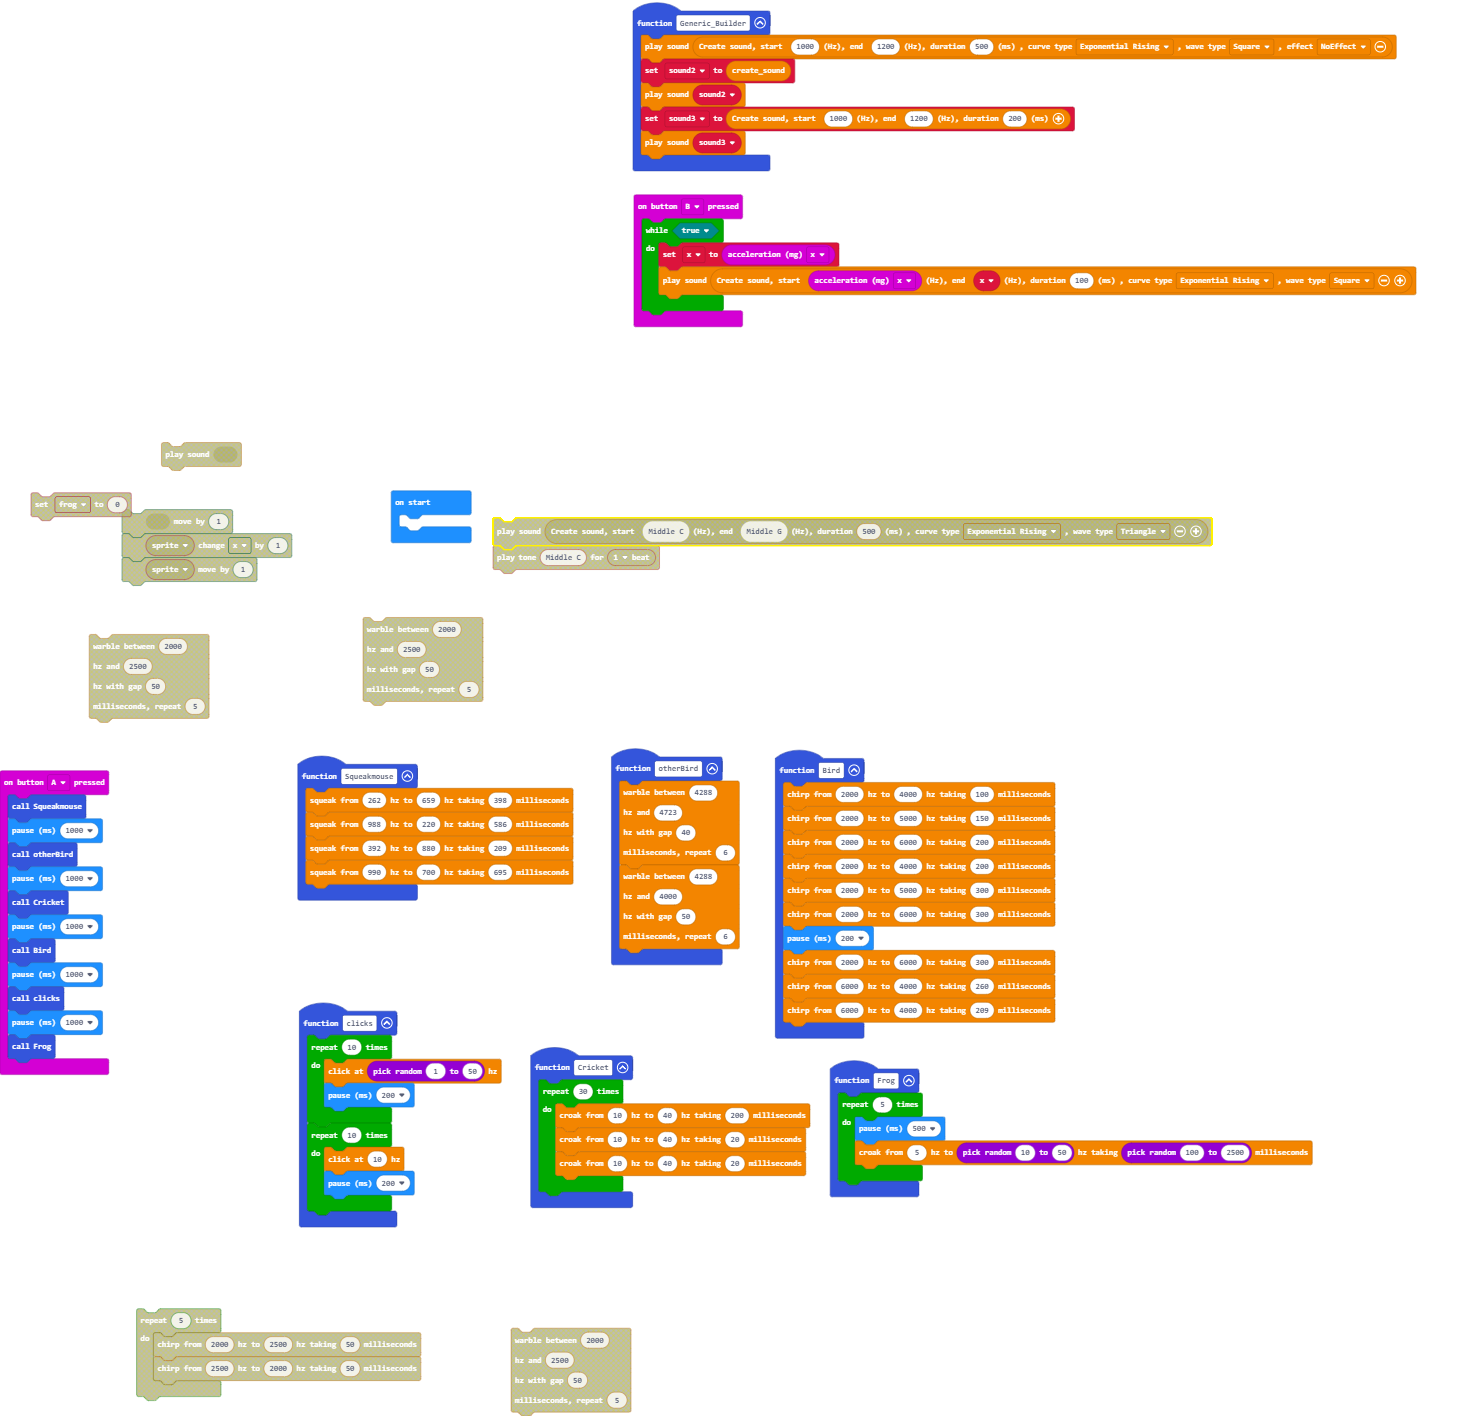
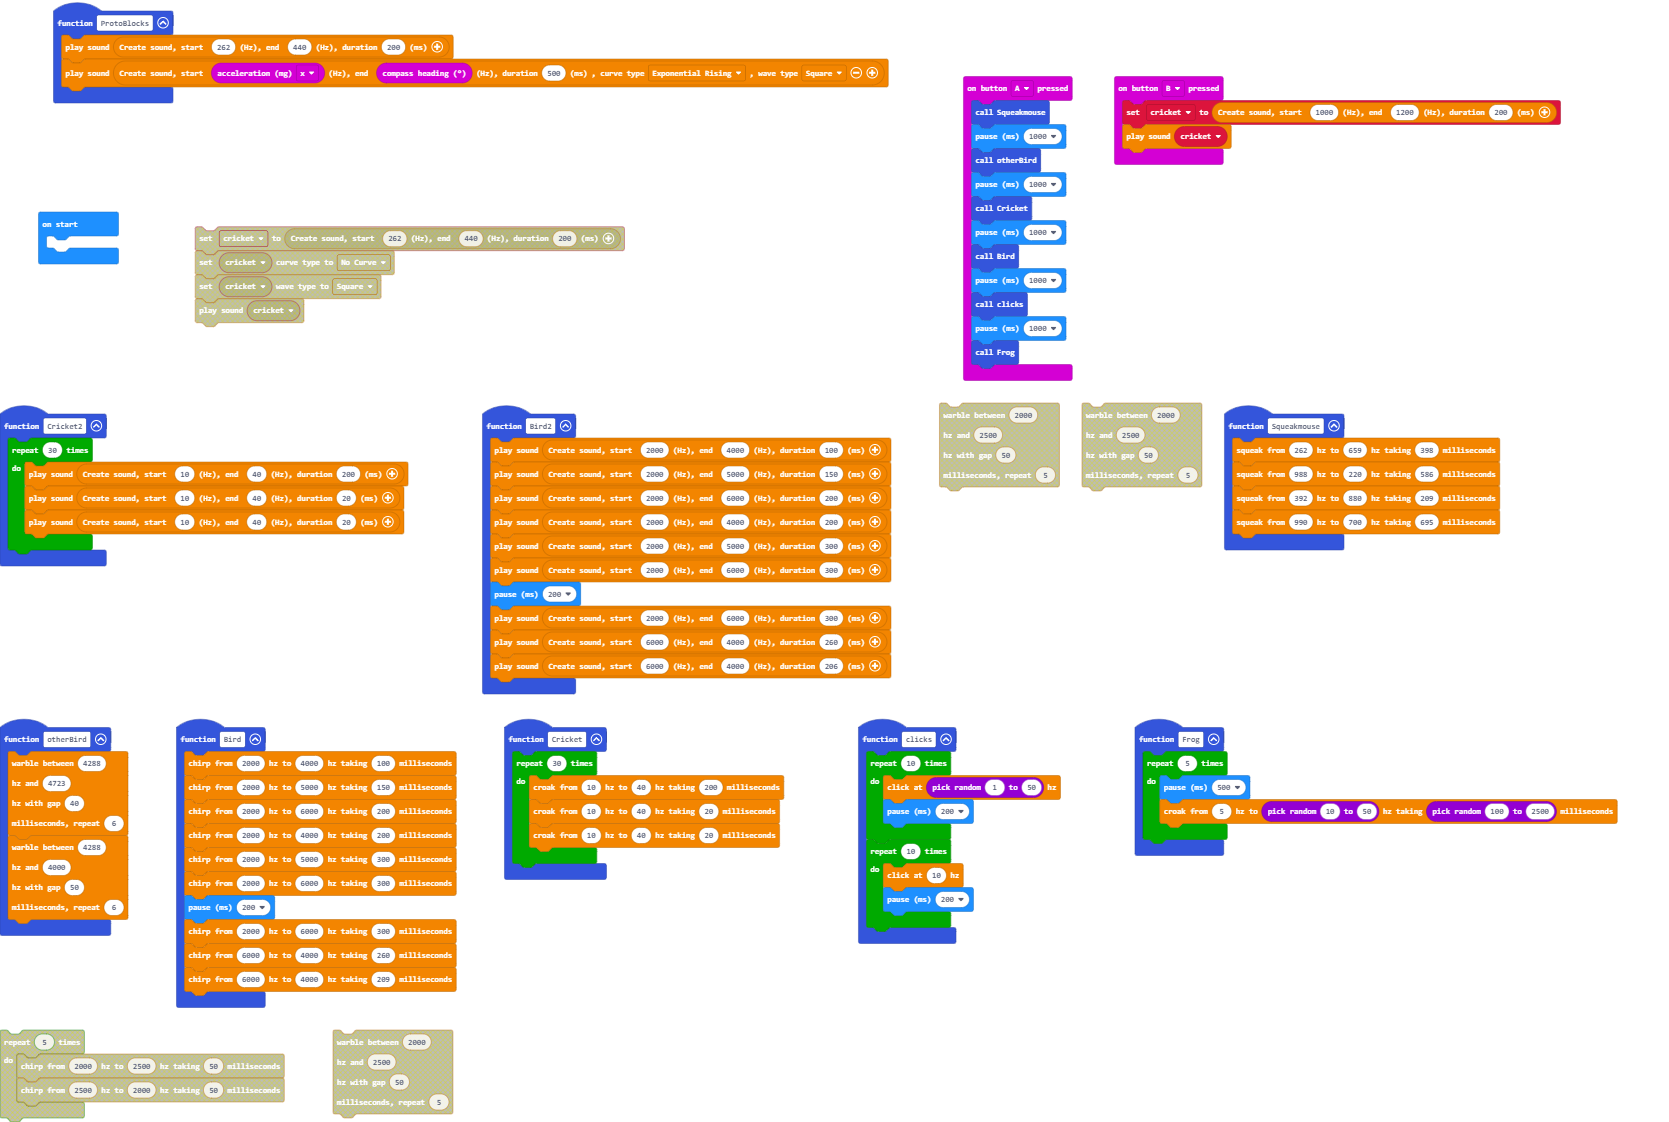
Added builder blocks

diff --git a/main.ts b/main.ts
@@ -1,6 +1,8 @@
-let sound2: sound.Sound = null
-let sound3: sound.Sound = null
-let x = 0
+let cricket: sound.Sound = null
+function ProtoBlocks () {
+    sound.playSound(sound.createSound(262, 440, 200))
+    sound.playSound(sound.createSound(input.acceleration(Dimension.X), input.compassHeading(), 500, CurveType.ExpRising, WaveType.SquareWave))
+}
 function Squeakmouse () {
     sound.squeakSound(262, 659, 398)
     sound.squeakSound(988, 220, 586)
@@ -59,18 +61,21 @@ function Bird () {
     sound.chirpSound(6000, 4000, 260)
     sound.chirpSound(6000, 4000, 209)
 }
-function Generic_Builder () {
-    sound.playSound(sound.createSound(1000, 1200, 500, CurveType.ExpRising, WaveType.SquareWave, EffectType.None))
-    sound2 = sound.createSoundVar()
-    sound.playSound(sound2)
-    sound3 = sound.createSound(1000, 1200, 200)
-    sound.playSound(sound3)
+function Bird2 () {
+    sound.playSound(sound.createSound(2000, 4000, 100))
+    sound.playSound(sound.createSound(2000, 5000, 150))
+    sound.playSound(sound.createSound(2000, 6000, 200))
+    sound.playSound(sound.createSound(2000, 4000, 200))
+    sound.playSound(sound.createSound(2000, 5000, 300))
+    sound.playSound(sound.createSound(2000, 6000, 300))
+    basic.pause(200)
+    sound.playSound(sound.createSound(2000, 6000, 300))
+    sound.playSound(sound.createSound(6000, 4000, 260))
+    sound.playSound(sound.createSound(6000, 4000, 206))
 }
 input.onButtonPressed(Button.B, function () {
-    while (true) {
-        x = input.acceleration(Dimension.X)
-        sound.playSound(sound.createSound(input.acceleration(Dimension.X), x, 100, CurveType.ExpRising, WaveType.SquareWave))
-    }
+    cricket = sound.createSound(1000, 1200, 200)
+    sound.playSound(cricket)
 })
 function clicks () {
     for (let index = 0; index < 10; index++) {
@@ -80,5 +85,12 @@ function clicks () {
     for (let index = 0; index < 10; index++) {
         sound.clickSound(10)
         basic.pause(200)
+    }
+}
+function Cricket2 () {
+    for (let index = 0; index < 30; index++) {
+        sound.playSound(sound.createSound(10, 40, 200))
+        sound.playSound(sound.createSound(10, 40, 20))
+        sound.playSound(sound.createSound(10, 40, 20))
     }
 }

diff --git a/custom.ts b/custom.ts
@@ -8,14 +8,14 @@
   */
 enum WaveType
 {
+    //% block="Square"
+    SquareWave = "3",
     //% block="Sine"
     SineWave = "0",
     //% block="Sawtooth"
     SawtoothWave = "1",
     //% block="Triangle"
     TriangleWave = "2",
-    //% block="Square"
-    SquareWave = "3",
     //% block="Noise"
     NoiseWave = "4"
 }
@@ -25,12 +25,12 @@ enum WaveType
   */
 enum CurveType
 {
-    //% block="NoCurve"
+    //% block="Curve"
+    Curve = "2",
+    //% block="No Curve"
     None = "0",
     //% block="Linear"
     Linear = "1",
-    //% block="Curve"
-    Curve = "2",
     //% block="Exponential Rising"
     ExpRising = "5",
     //% block="Exponential Falling"
@@ -245,6 +245,28 @@ namespace sound{
     //% blockSetVariable=sound
     export function createSoundVar(): Sound {
         return new Sound();
+    }
+
+    /**
+     * set wave type
+     * @param sound instance of Sound to change
+     * @param waveType wave type to change to
+     */
+    //% blockId=music_set_wave_type
+    //% block="set %sound wave type to %waveType"
+    export function setWave(sound : Sound, waveType : WaveType){
+        sound.waveType = waveType;
+    }
+
+    /**
+     * set curve type
+     * @param sound instance of Sound to change
+     * @param curveType curve type to change to
+     */
+    //% blockId=music_set_curve_type
+    //% block="set %sound curve type to %curveType"
+    export function setCurve(sound : Sound, curveType : CurveType){
+        sound.curveType = curveType;
     }
 }
 
